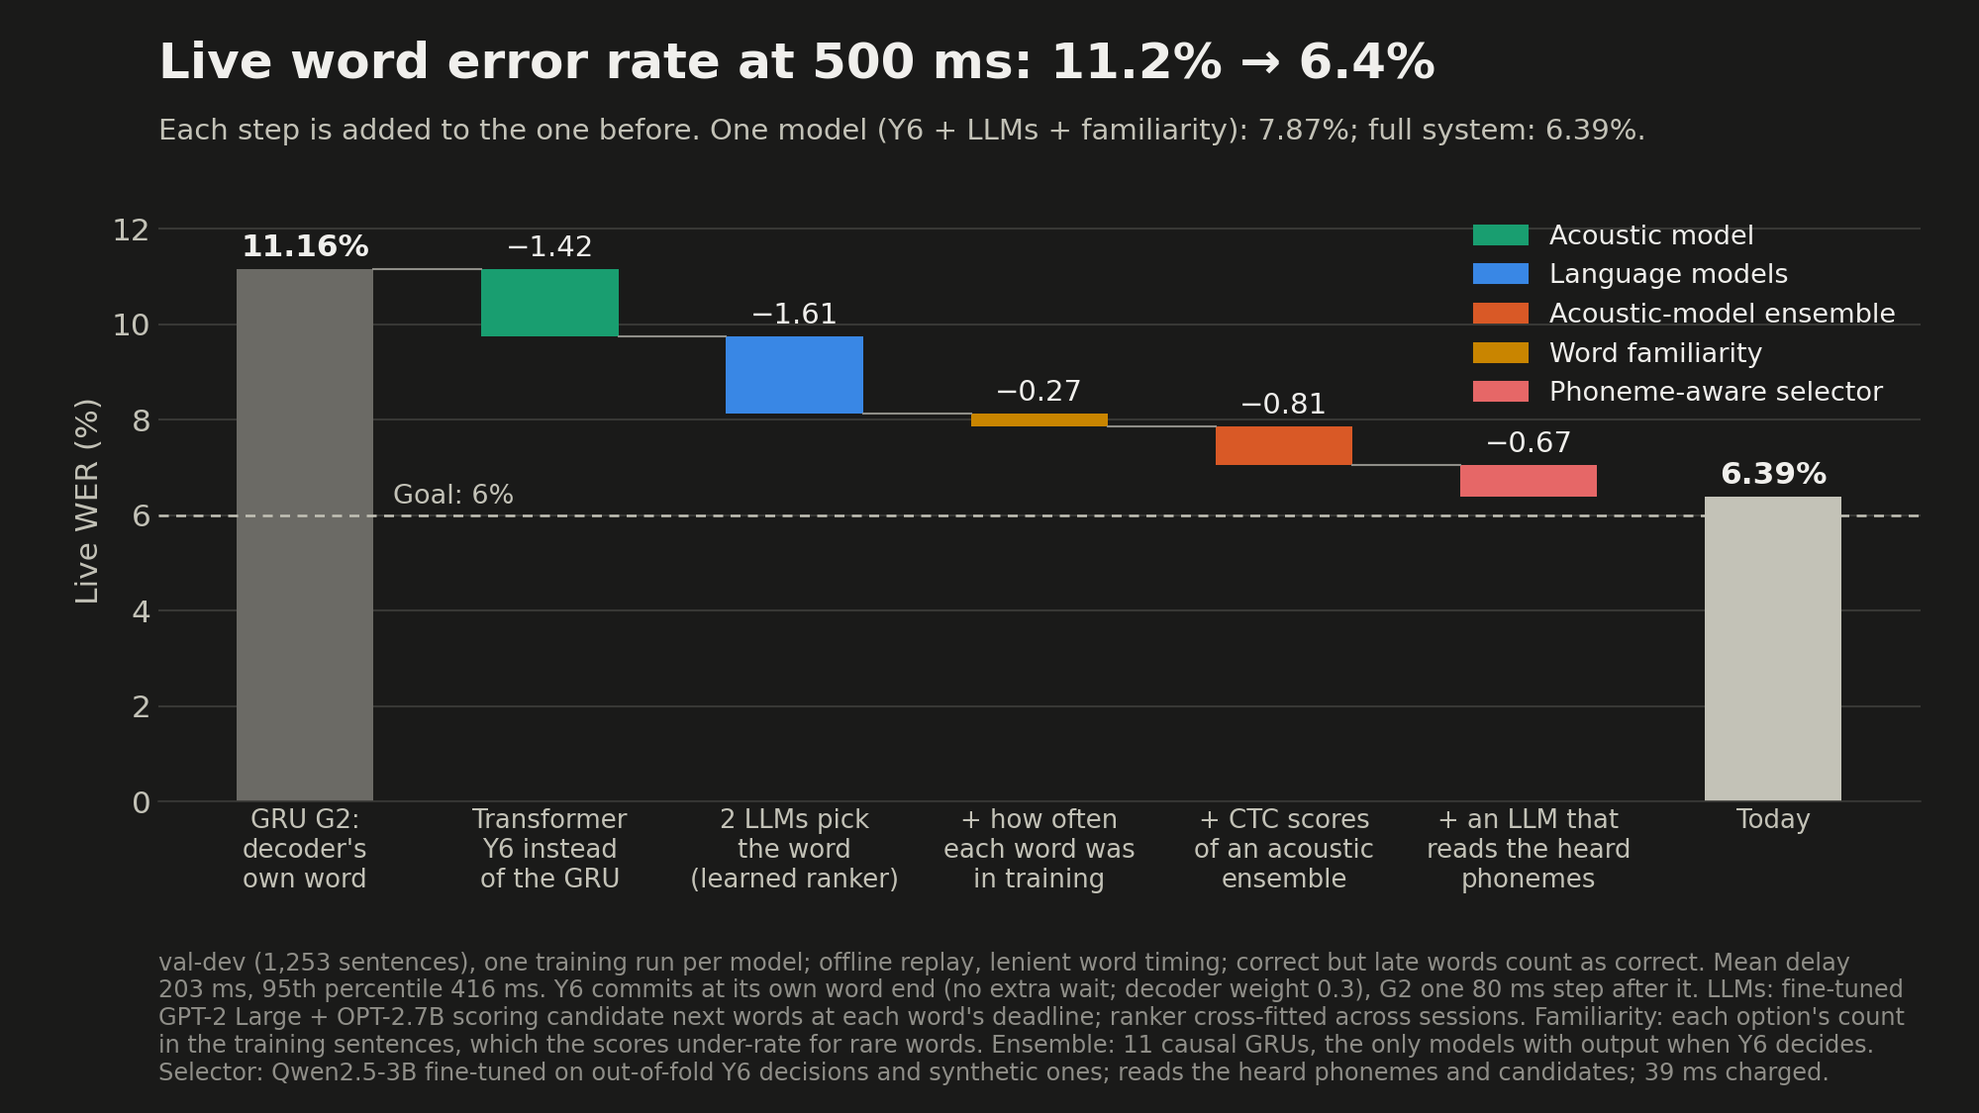
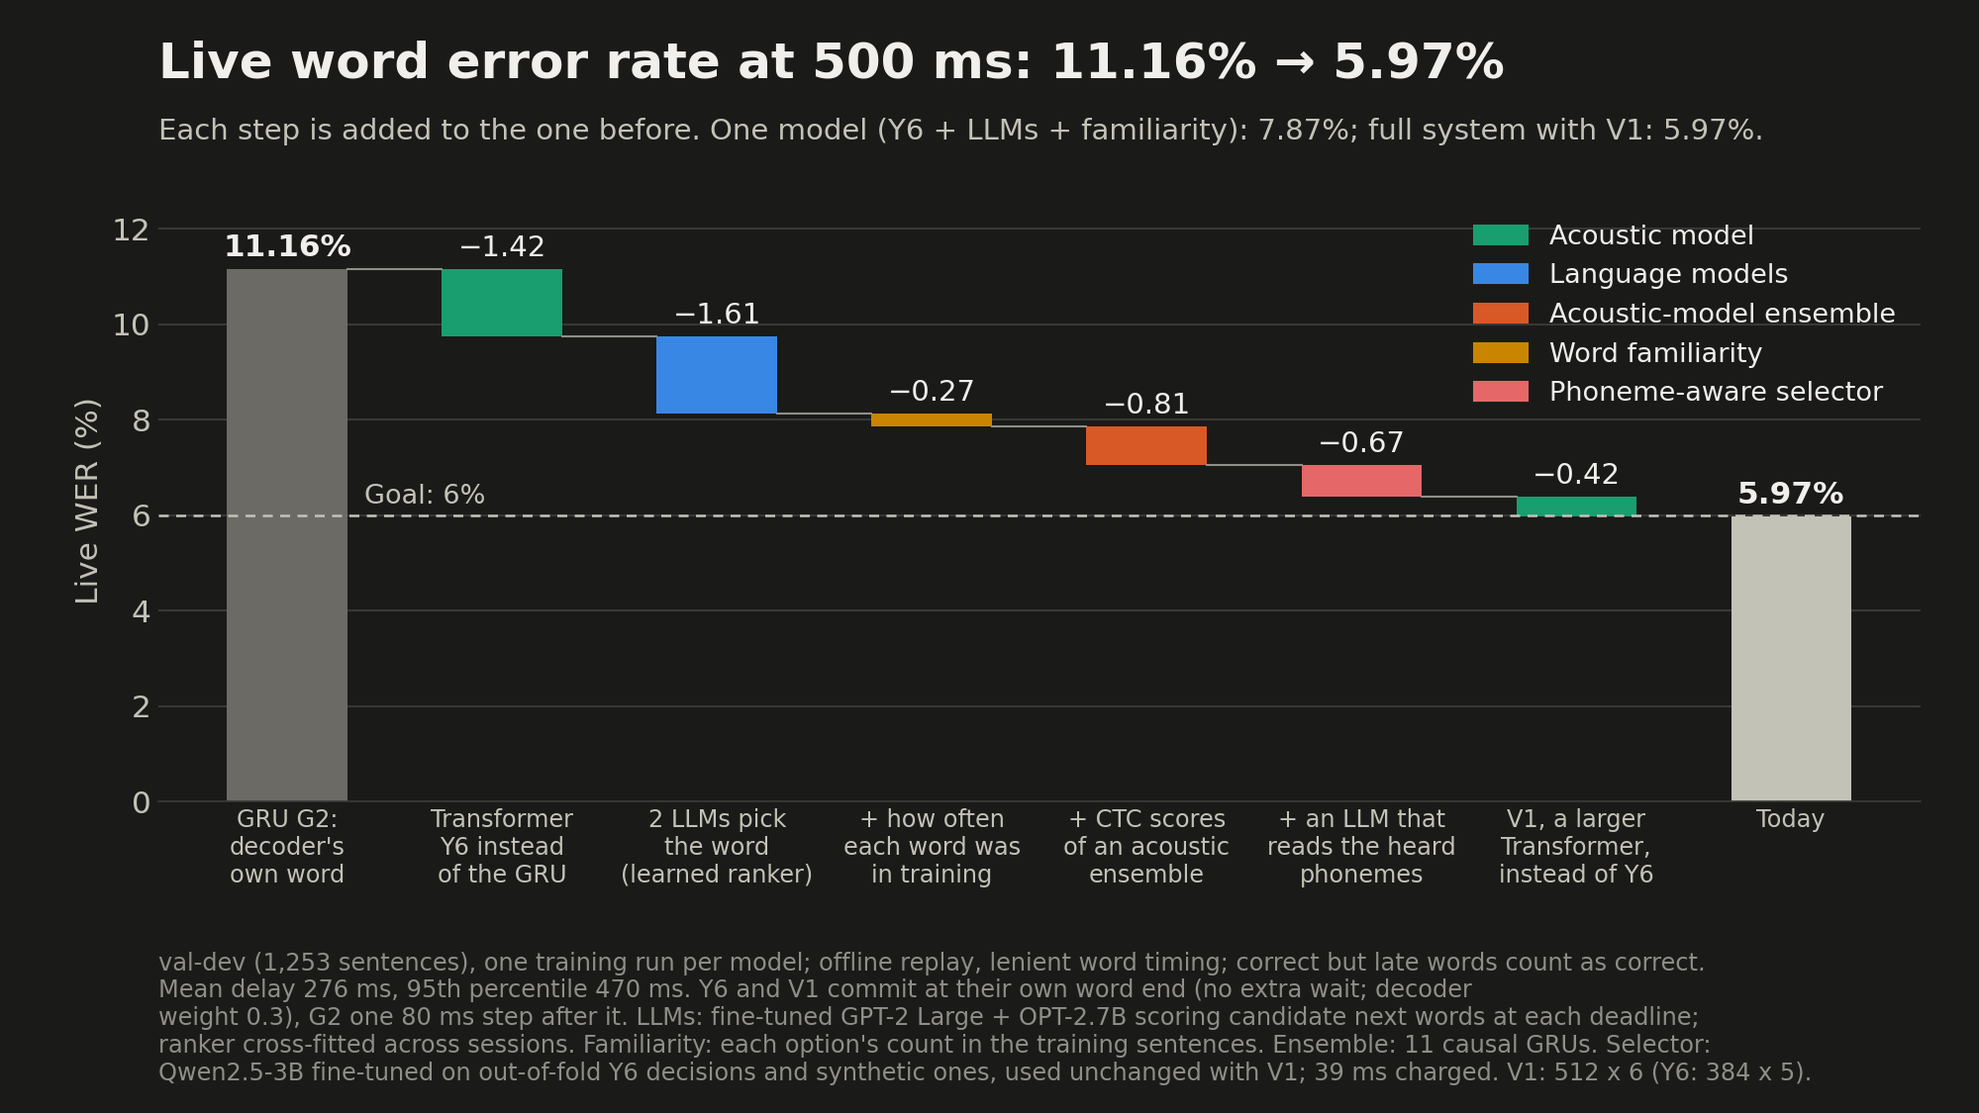
V1 is the 500 ms and 1.5 s decider: README, charts and plan at 5.97 / 5.80% (V1_2 5.81 / 5.61); V2 at 200 ms 6.66% but 91.0% in time (rule not met); U1, T1 no second run; registry rows

diff --git a/README.md b/README.md
@@ -9,14 +9,14 @@ unchanged.
 shown within 200 ms, 500 ms or 1.5 s of the moment the participant finished attempting it. Whole-sentence
 (bidirectional) acoustic models are excluded, and rescoring after the sentence ends does not count.
 
-## Status (2026-11-20)
+## Status (2026-11-22)
 
 | Time limit after the word ends | One model | Full system | Mean delay | Deciding model |
 |---|---|---|---|---|
 | 200 ms | 8.64% | 8.06% | 78 ms | GRU D1 (causal) |
-| 500 ms | 7.42% | 6.39% | 203 ms | Transformer Y6 |
-| 1.5 s | 7.15% | 5.99% | 1,227 ms | Transformer Y6 |
-| After the sentence (not the target) | 5.06% | 4.28% | - | Transformer Y6, its 100 best sentences rescored |
+| 500 ms | 6.94% | **5.97%** | 276 ms | Transformer V1 |
+| 1.5 s | 6.51% | **5.80%** | 1,226 ms | Transformer V1 |
+| After the sentence (not the target) | 4.78% | 4.28% | - | 100 best sentences rescored: V1 with GPT-2 Large; Y6 with the full system |
 
 A live result passes its time limit when 95% of words are final within it; a correct word that arrives late still
 counts as correct, and the mean delay shows the typical wait. The deciding acoustic model and its 4-gram decoder
@@ -30,36 +30,43 @@ Y6 models, each trained without one fifth of the training sentences, so it learn
 splits (Qwen2.5-1.5B: 0.36-0.48 and 0.22-0.36). At 200 ms it runs only on close decisions (29% of them, where the two
 best candidates score within a margin), which keeps 95.2% of D1's words in time and lowers WER by 0.49-0.63. The "full
 system" adds the CTC scores of an ensemble of acoustic models (11 causal GRUs at 200 ms and 500 ms, and at 1.5 s 22
-GRUs, 3 Transformers and Y6 with three extra CTC inputs) and a stronger 3B selector, one per limit. At 1.5 s it is
-trained on both deadlines' decisions together and also sees the words already decoded after the one being chosen (40
-ms per word): 6.51% -> 6.07%, lower than the separate 3B (6.22%) on all four session splits. Committing 13 steps (1.04
-s) after the word end instead of 10, the longest wait that keeps 95% of words within 1.5 s (97.5% are; at 14 steps
-92.5%), gives 5.99%, the first result under 6% (6.49% without the selector; 12 steps: 5.96%). Over four session splits
-it is 6.07% on average (6.11% at 10 steps), so it is under 6% on the standard split only. At 200 ms and 500 ms the
-same recipe with 60k synthetic decisions and 25% more real ones added (39 ms per word): 8.06% at 200 ms (8.12% before,
-all four splits lower) and 7.06% -> 6.39% at 500 ms; at 1.5 s that version is worse (6.10%). The full system runs only
-with the best model that meets each limit, and each limit loads one selector. After the sentence, a learned rescorer
-combines GPT-2 Large with the same inputs over Y6's 100 best sentences (GPT-2 Large alone: 5.47%). The exact sentence
-is in that list for 89% of sentences, and always picking the closest one would give 2.24%, so better choosing has room
-left.
+GRUs, 3 Transformers and the deciding Transformer with three extra CTC inputs) and a stronger 3B selector, one per
+limit. At 1.5 s it is trained on both deadlines' decisions together and also sees the words already decoded after the
+one being chosen (40 ms per word). At 200 ms and 500 ms the same recipe with 60k synthetic decisions and 25% more real
+ones added (39 ms per word) is used; at 1.5 s that version is worse. The full system runs only with the best model
+that meets each limit, and each limit loads one selector.
+
+V1, the same Transformer recipe as Y6 at width 512 and 6 layers (20.0M parameters instead of 9.7M), took the full
+system under 6% at both 500 ms and 1.5 s: 6.39% -> 5.97% at 500 ms and 5.99% -> 5.80% at 1.5 s, with the same
+ensemble, language models and selectors (trained on Y6's decisions and used unchanged). Over four session splits it
+averages 5.91% and 5.78%: under 6% on all four splits at 1.5 s and on three of four at 500 ms (6.05% on the fourth).
+V1 marks words about one 80 ms frame later than Y6, so at 1.5 s it commits 12 steps (0.96 s) after the word end, the
+longest wait that keeps 95% of words in time (97.7% are). A second training run of V1 gives 5.81% and 5.61% through
+the same pipeline. Going wider (640) or deeper (8 layers) than V1 did not help.
+
+After the sentence, a learned rescorer combines GPT-2 Large with the same inputs over Y6's 100 best sentences (GPT-2
+Large alone: 5.47% on Y6's list, 4.78% on V1's). The exact sentence is in Y6's list for 89% of sentences, and always
+picking the closest one would give 2.24%, so better choosing has room left.
 
 D1 is a causal 1,344-unit GRU. Y6 is a 9.7M-parameter Transformer trained with the LightBeam recipe (Feghhi et al.
-2026) with 80 ms of look-ahead. Each result comes from one training run of the recipe named; every run is listed in
-[`harness/registry/MODELS.md`](harness/registry/MODELS.md).
+2026) with 80 ms of look-ahead, and V1 is the same recipe at 20.0M parameters. Each result comes from one training run
+of the recipe named; every run is listed in [`harness/registry/MODELS.md`](harness/registry/MODELS.md).
 
 No Transformer passes 200 ms yet. Y6 marks word ends late (95th percentile 360 ms after the word). Y13, the Y6 recipe
 trained with shorter time masks, marks them early: its full system reaches 7.67% at 200 ms, but only 94.9% of its
-words are final within 200 ms, just short of the 95% rule, so D1 decides the 200 ms result.
+words are final within 200 ms, just short of the 95% rule. V2, V1's recipe with the same shorter masks, reaches 6.66%
+at 200 ms, but only 91.0% of its words are final in time: the language-model step takes too long. So D1 still decides
+the 200 ms result.
 
-These are on the project's validation partition of the public B2T '25 data ("val-dev": 1,253 trials, 8,277 words,
-35 sessions, one participant). Read them as exploratory:
+These are on the project's validation partition of the public B2T '25 data ("val-dev": 1,253 trials, 8,277 words, 35
+sessions, one participant). Read them as exploratory:
 
 - Models, ensembles and settings were chosen on this same partition, so the numbers are optimistic. There is no
   independent holdout, and the competition's test labels are not public.
-- Live results are offline replays of the models' outputs under the timing rules, not a running streaming system.
-  Y6 streams in the harness's live player (its streamed outputs match the offline ones), but the timing here comes
-  from the replays. The ranker is trained on half of the sessions
-  and scored on the other half, both ways.
+- Live results are offline replays of the models' outputs under the timing rules, not a running streaming system. Y6
+  streams in the harness's live player (its streamed outputs match the offline ones; V1 has not been run there), but
+  the timing here comes from the replays. The ranker is trained on half of the sessions and scored on the other half,
+  both ways.
 - Word-end times come from a forced alignment, not from measured speech.
 - Most comparisons are single training runs.
 
@@ -69,20 +76,20 @@ A second track on the Makin lab's ECoG dataset is intended; access and integrati
 
 <picture>
   <source media="(prefers-color-scheme: dark)" srcset="docs/images/dark/01_live_wer_waterfall_500ms.png">
-  <img src="docs/images/light/01_live_wer_waterfall_500ms.png" alt="Waterfall chart of live word error rate at 500 ms: GRU G2's own words 11.16%; Transformer Y6 instead of the GRU -1.42; two language models choosing the word -1.61; word familiarity -0.27 (one model: 7.87%); CTC scores of an acoustic-model ensemble -0.81; an LLM that reads the heard phonemes -0.67; result 6.39%.">
+  <img src="docs/images/light/01_live_wer_waterfall_500ms.png" alt="Waterfall chart of live word error rate at 500 ms: GRU G2's own words 11.16%; Transformer Y6 instead of the GRU -1.42; two language models choosing the word -1.61; word familiarity -0.27 (one model: 7.87%); CTC scores of an acoustic-model ensemble -0.81; an LLM that reads the heard phonemes -0.67 (6.39%); V1, a larger Transformer, deciding instead of Y6 -0.42; result 5.97%.">
 </picture>
 
 ### GRU or Transformer, one acoustic model each
 
 <picture>
   <source media="(prefers-color-scheme: dark)" srcset="docs/images/dark/03_gru_vs_transformer.png">
-  <img src="docs/images/light/03_gru_vs_transformer.png" alt="Bar chart of one GRU against one Transformer, each with the same language models, word familiarity and phoneme-aware selector: 500 ms 8.20% vs 7.42%, 1.5 s 7.87% vs 7.15%, sentence end 6.10% vs 5.47%, no time limit 5.76% vs 5.47%; at 200 ms only the GRU, 8.64% (selector on close decisions only).">
+  <img src="docs/images/light/03_gru_vs_transformer.png" alt="Bar chart of one GRU against one Transformer (V1), each with the same language models, word familiarity and phoneme-aware selector: 500 ms 8.20% vs 6.93%, 1.5 s 7.87% vs 6.51%, sentence end 6.10% vs 4.78%, no time limit 5.76% vs 4.78%; at 200 ms only the GRU, 8.64% (selector on close decisions only).">
 </picture>
 
 ## What this repository adds
 
 - **Streaming acoustic models** (`model_training/`): causal GRUs with a bounded look-ahead of 80 ms to 1.9 s, and
-  causal Transformers (so far only the plain causal variant streams, through a per-layer cache). 86 training runs
+  causal Transformers (so far only the plain causal variant streams, through a per-layer cache). 99 training runs
   are registered.
 - **A pipeline harness** (`harness/`, [README](harness/README.md)): full validation benchmarks with a streaming
   timing check, paired comparisons, decode sweeps, word-commitment analyses, n-best rescoring, retraining with a

diff --git a/harness/registry/MODELS.md b/harness/registry/MODELS.md
@@ -167,7 +167,7 @@ Retired recipe numbers: A6, A8, A9, C2, D2, D4, D5, G13, G14, G15, Y9, Y10, Y14.
 3. Give it its ID. A new configuration gets the next free recipe number of its letter and run number 1; a new
    seed or a retrain of an existing recipe gets that recipe's next run number. It gets a new letter only if the
    network part is new; then add the letter to the Letters table. Next free recipe numbers: A12, B3, C5, D6, E2, F22,
-   G18, T1, U1, V2, W2, X10, Y16, Z3.
+   G18, T2, U2, V3, W2, X10, Y16, Z3.
 4. In the same step as registering it, add its row to the table of its letter: run ID, full name, weights, start date
    and a short note. Remove it from "Planned runs" if it was listed there.
 
@@ -187,8 +187,8 @@ Retired recipe numbers: A6, A8, A9, C2, D2, D4, D5, G13, G14, G15, Y9, Y10, Y14.
 | Z | `tfm512x8` | Transformer, width 512, 8 layers | 2026-09-28 |
 | W | `tfm384x5_lb_conv` | Transformer, width 384, 5 layers, LightBeam style, a causal convolution in every block | 2026-11-20 |
 | V | `tfm512x6_lb` | Transformer, width 512, 6 layers, LightBeam style | 2026-11-20 |
-| U | `tfm640x6_lb` | Transformer, width 640, 6 layers, LightBeam style | planned 2026-11-21 |
-| T | `tfm512x8_lb` | Transformer, width 512, 8 layers, LightBeam style | planned 2026-11-21 |
+| U | `tfm640x6_lb` | Transformer, width 640, 6 layers, LightBeam style | 2026-11-21 |
+| T | `tfm512x8_lb` | Transformer, width 512, 8 layers, LightBeam style | 2026-11-21 |
 
 The next new GRU architecture is H. The next new Transformer architecture is S.
 
@@ -322,12 +322,25 @@ One row per training run, grouped by recipe. "Weights" lists what is registered 
 | G16_1 | `gru1344_head256_pall_f160_splice_20k_s10` | final, avg, bestval | - | 2026-11-11 | The G2 recipe with phrase splicing (probability 0.3). Best WER 7.70 / 7.71 (final / avg) vs G2_4 7.77 / 7.94: keep rule not met. |
 | G17_1 | `gru1344_head256_pall_f160_diph_20k_s10` | final, avg, bestval | - | 2026-11-11 | The G2 recipe with the diphone auxiliary target (weight 0.3). Best WER 8.37 / 8.24: worse than G2_4. |
 
+### T: Transformer, width 512, 8 layers, LightBeam style
+
+| Run | Full name | Weights | Old name | Started | Notes |
+|---|---|---|---|---|---|
+| T1_1 | `tfm512x8_lb_p20000_f80_sm80_noday_v2_63k_s10` | final, avg, bestval | - | 2026-11-21 | Y6's recipe at width 512, 8 layers, 8 heads (26.3M parameters; V1 20.0M), the depth step beyond V1. Best WER 6.67 / 6.46 at scale 0.3 / 0.25; greedy PER 6.99 / 6.85; never-seen-word phoneme error (avg) 32.5. Second run only if run 1 (avg) <= 6.20 (V1's mean - 0.15): not met. |
+
+### U: Transformer, width 640, 6 layers, LightBeam style
+
+| Run | Full name | Weights | Old name | Started | Notes |
+|---|---|---|---|---|---|
+| U1_1 | `tfm640x6_lb_p20000_f80_sm80_noday_v2_63k_s10` | final, avg, bestval | - | 2026-11-21 | Y6's recipe at width 640, 6 layers, 10 heads (30.9M parameters), the width step beyond V1. Best WER 6.79 / 6.74 at scale 0.4; greedy PER 7.25 / 7.08; never-seen-word phoneme error (avg) 35.4. Second run rule (<= 6.20) not met. |
+
 ### V: Transformer, width 512, 6 layers, LightBeam style
 
 | Run | Full name | Weights | Old name | Started | Notes |
 |---|---|---|---|---|---|
-| V1_1 | `tfm512x6_lb_p20000_f80_sm80_noday_v2_63k_s10` | final, avg, bestval | - | 2026-11-20 | Y6's recipe at width 512, 6 layers, 8 heads (20.0M parameters; Y6 9.7M). Best WER 6.77 / 6.54 at scale 0.3 (Y6_1 7.27 / 6.97; Y6_2 6.95 / 6.95); greedy PER 6.98 / 6.85 (Y6_1 8.07 / 7.95); never-seen-word phoneme error 33.2 / 33.1 (Y6_1 / Y6_2 avg 35.3 / 36.2). |
-| V1_2 | `tfm512x6_lb_p20000_f80_sm80_noday_v2_63k_s11` | final, avg, bestval | - | 2026-11-21 | Second run of V1 (seed 11, data seed 2). Best WER 6.05 / 6.15 at scale 0.3 (V1_1 6.77 / 6.54); greedy PER 6.79 / 6.67; never-seen-word phoneme error 32.7 / 32.8. Recipe mean (avg) 6.35 vs Y6 6.96: passes the rule set before training (<= 6.66). |
+| V1_1 | `tfm512x6_lb_p20000_f80_sm80_noday_v2_63k_s10` | final, avg, bestval | - | 2026-11-20 | Y6's recipe at width 512, 6 layers, 8 heads (20.0M parameters; Y6 9.7M). Best WER 6.77 / 6.54 at scale 0.3 (Y6_1 7.27 / 6.97; Y6_2 6.95 / 6.95); greedy PER 6.98 / 6.85 (Y6_1 8.07 / 7.95); never-seen-word phoneme error 33.2 / 33.1 (Y6_1 / Y6_2 avg 35.3 / 36.2). The 500 ms and 1.5 s live decider since 2026-11-22: full system 5.97 (D 0) / 5.80 (D 12) vs Y6_1 avg 6.39 / 5.99; one model 6.94 / 6.51; GPT-2 L rescoring at sentence end 4.78 (Y6_1 avg 5.47). |
+| V1_2 | `tfm512x6_lb_p20000_f80_sm80_noday_v2_63k_s11` | final, avg, bestval | - | 2026-11-21 | Second run of V1 (seed 11, data seed 2). Best WER 6.05 / 6.15 at scale 0.3 (V1_1 6.77 / 6.54); greedy PER 6.79 / 6.67; never-seen-word phoneme error 32.7 / 32.8. Recipe mean (avg) 6.35 vs Y6 6.96: passes the rule set before training (<= 6.66). Through the same live pipeline (reported, not charted): 5.81 at 500 ms (D 0), 5.61 at 1.5 s (D 13); GPT-2 L rescoring 4.85. |
+| V2_1 | `tfm512x6_lb_p20000_f80_sm80_noday_v2_mask5f_63k_s10` | final, avg, bestval | - | 2026-11-21 | V1's recipe with Y13's time masks (20 of at most 5 frames), for a 200 ms Transformer decider. Best WER 7.08 / 6.86 at scale 0.25 / 0.2 (Y13_1 8.03 / 8.01); greedy PER 7.40 / 7.29; never-seen-word phoneme error (avg) 33.5. Before the LLM step 95% of words within 200 ms at 9.98 (D1_1 11.57). 200 ms full system (2026-11-22, D 0, gated 3B selector): 6.66 (mean of four splits 6.66; D1_1 8.06), but only 91.0% of words within 200 ms (p95 233 ms; 92.6% without the selector): the LLM step's compute pushes it over, so the rule is not met and D1_1 stays. |
 
 ### W: Transformer, width 384, 5 layers, LightBeam style, a causal convolution in every block
 
@@ -387,11 +400,4 @@ Prepared in `results/harness/queue/` and not trained. Each takes the next free n
 training starts. New tags: `v2` (the 2026-11-11 corrections to the LightBeam reproduction), `crctc` (CR-CTC
 consistency loss, weight 0.2), `splice` (phrase splicing), `diph` (diphone targets).
 
-Queued 2026-11-21 (`results/harness/queue/tfm_arch_20261120.py`, arms d512mask5f, d640, d512x8; run 1 each, after V1_1's
-full-pipeline run; rules in the script):
-
-| Recipe | Full name | Change |
-|---|---|---|
-| V2 | `tfm512x6_lb_p20000_f80_sm80_noday_v2_mask5f_63k_s10` | V1 with Y13's time masks (at most 5 frames each), for a 200 ms Transformer decider |
-| U1 | `tfm640x6_lb_p20000_f80_sm80_noday_v2_63k_s10` | Y6's recipe at width 640, 6 layers, 10 heads (30.9M parameters; V1 20.0M) |
-| T1 | `tfm512x8_lb_p20000_f80_sm80_noday_v2_63k_s10` | Y6's recipe at width 512, 8 layers, 8 heads (26.3M parameters) |
+None at present.

diff --git a/docs/PLAN.md b/docs/PLAN.md
@@ -1,13 +1,14 @@
-# Streaming neural decoding plan — updated 2026-11-19
+# Streaming neural decoding plan — updated 2026-11-22
 
-**Where things stand (2026-11-20 evening):** live-word WER is 8.06 / 6.39 / **5.99%** at 200 ms / 500 ms / 1.5 s on val-dev
-with one decoder (mean delay 78 / 203 / 1,227 ms; 1.5 s now commits 13 steps after the word end, not 10, the longest
-wait inside the 95% rule: the first result under 6%, on the standard split; mean of four splits 6.07), all three with the fine-tuned Qwen2.5-3B phoneme-aware selector (step
-1; at 200 ms on close decisions only; 8.64 / 7.06 / 6.51 without it), against a target of below 6% (`current_knowledge.md` section 0, which also holds every result and
-the ledger of what was tried). A second decoder's votes (without the selector) gave 6.77 / 6.48. The 500 ms and 1.5 s results come from the Y6_1
-average deciding the words, with word-familiarity features in the ranker. After the sentence, a learned rescorer with
-the CTC ensemble and familiarity reaches 4.28% (GPT-2 Large alone 5.47%; best sentence in the list 2.24%). Y13 reaches
-7.67% at 200 ms but has 94.9% of its words within 200 ms, just short of the 95% rule.
+**Where things stand (2026-11-22):** live-word WER is 8.06 / **5.97** / **5.80%** at 200 ms / 500 ms / 1.5 s on val-dev
+(mean delay 78 / 276 / 1,226 ms; mean of four session splits 8.01 / 5.91 / 5.78): under the 6% target at 500 ms and 1.5 s,
+not yet at 200 ms (`current_knowledge.md` section 0, which also holds every result and the ledger of what was tried).
+The 500 ms and 1.5 s decider is V1_1 avg, Y6's recipe at width 512 and 6 layers (20.0M parameters); its second run V1_2
+avg gives 5.81 / 5.61 through the same pipeline (V1 recipe 5.89 / 5.70). The full system adds the CTC ensemble, GPT-2
+Large ft + OPT-2.7B, word familiarity and the fine-tuned Qwen2.5-3B phoneme-aware selector (one per limit, its time
+charged). At 200 ms the causal GRU D1_1 decides; V2_1 (V1 + Y13's short masks) reaches 6.66 there, but only 91.0% of its
+words are final within 200 ms, because list extraction and the two LLMs take too long. After the sentence, a learned
+rescorer over Y6's 100-best reaches 4.28% (GPT-2 Large alone: V1_1 avg 4.78, Y6_1 avg 5.47).
 
 **Reporting (2026-11-19, `current_knowledge.md` 1.4):** a budget is met when 95% of words are final within it; correct
 but late words then count as correct; every live number carries its mean delay; per budget, one model and the full
@@ -241,6 +242,17 @@ marks each word about one 80 ms frame later than Y6 (delays about 78 ms longer a
 D 13 timing. The selectors were trained on Y6 decisions and used unchanged. Queued before V2
 (`v1_extras_20261121.py`): V1's one-model cells with the separate 3B (chart 03, README) and GPT-2 rescoring of V1_1 /
 V1_2 avg; charts and README regenerated after it.
+**Overnight results (read 2026-11-22 14:42 EST):** V1_2 avg live 5.81 at 500 ms (mean 5.81, 98.2% within, mean delay 208
+ms) and 5.61 at 1.5 s D 13 (mean 5.56; D 13 is V1_2's longest wait inside the 95% rule). V1_1 avg one model with the
+separate 3B: 6.94 / 6.51 (Y6 7.42 / 7.15). GPT-2 rescoring: V1_1 avg 4.78, V1_2 avg 4.85. V2 6.86 (avg; passes its
+gate), U1 (640 x 6) 6.74, T1 (512 x 8) 6.46: neither size step earns a second run (rule <= 6.20). **V2 at 200 ms (15:15
+EST, `v2_200_20261122.py`):** full system 6.66 (mean 6.66) vs D1_1 8.06, but 91.0% of words within 200 ms (p95 233 ms;
+92.6% without the selector): the rule (95%) is not met; D1_1 stays. Charts, README, figures README and the 595 deck
+updated to V1 (2026-11-22).
+**Next at 200 ms (proposed, not queued):** V2's lists miss the rule on compute, not accuracy. (a) GPT-2 L ft in fp16 on
+V2's lists (fp32 now; OPT in fp16 left WER unchanged) and re-time; (b) a tighter selector gate or none; (c) a second run
+of V2 (V1's two runs differed by 0.39 in WER and V1_2 marked words earlier, 208 vs 276 ms mean delay at 500 ms). (a)
+and (b) need no training (about 15 min of GPU).
  LoRA on Qwen2.5-1.5B (then 3B): first on the synthetic decisions, then on the fold decisions (the
 real decoder's lists); `learning/selector/finetune.py`; `peft` needed (an environment change). About 1-2 h of GPU per
 run. At the deadline one prompt of about 100-150 tokens plus the K options: roughly 20-40 ms, inside the 500 ms
